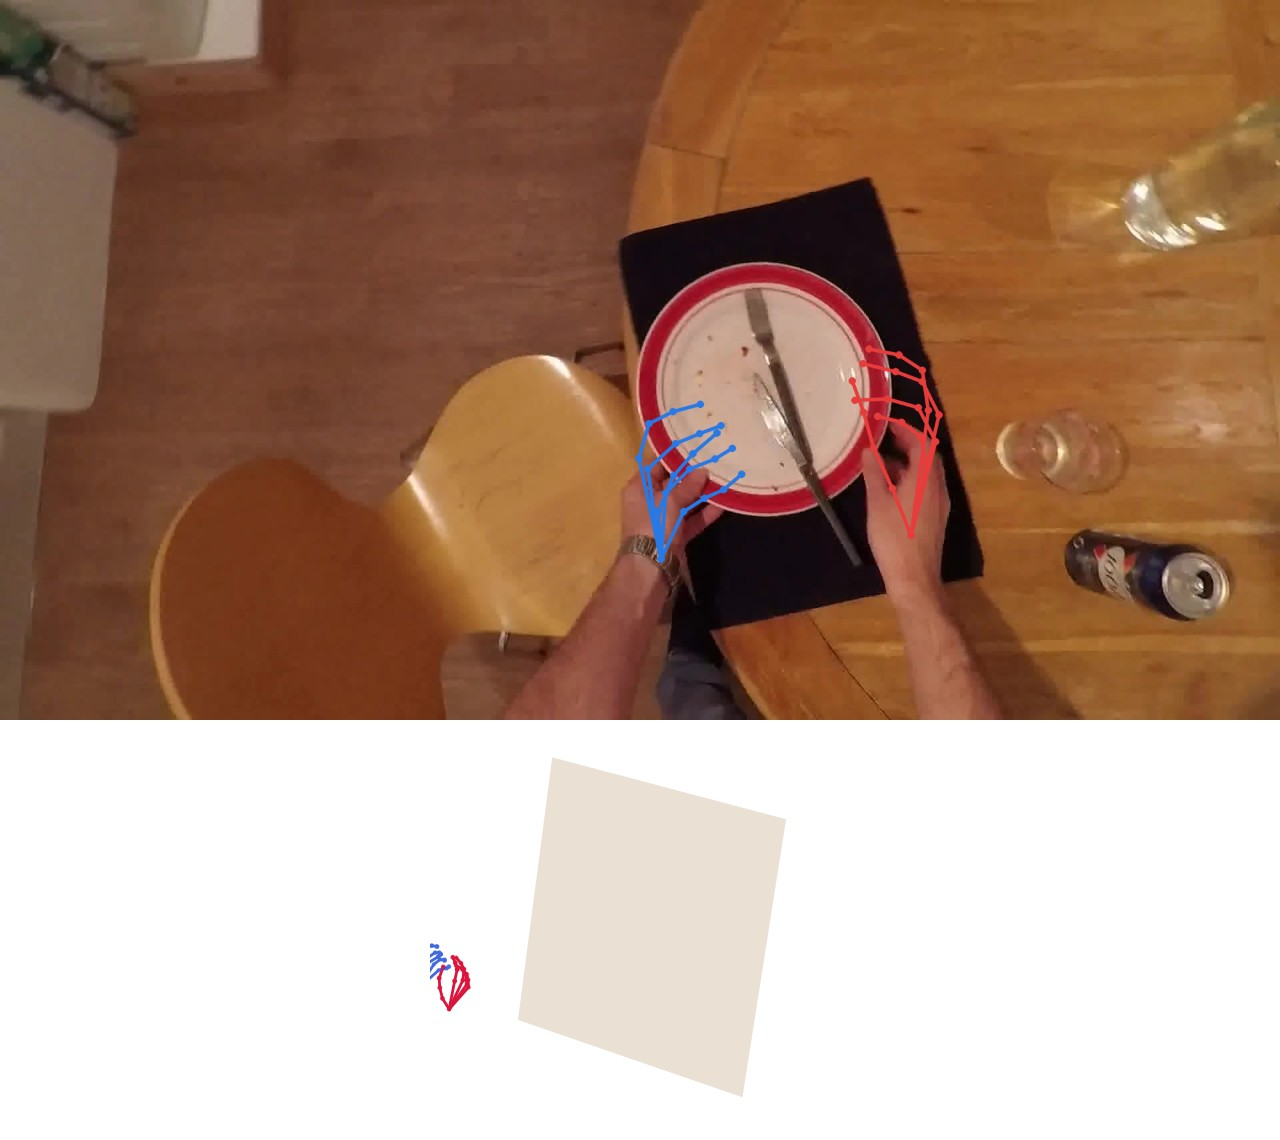
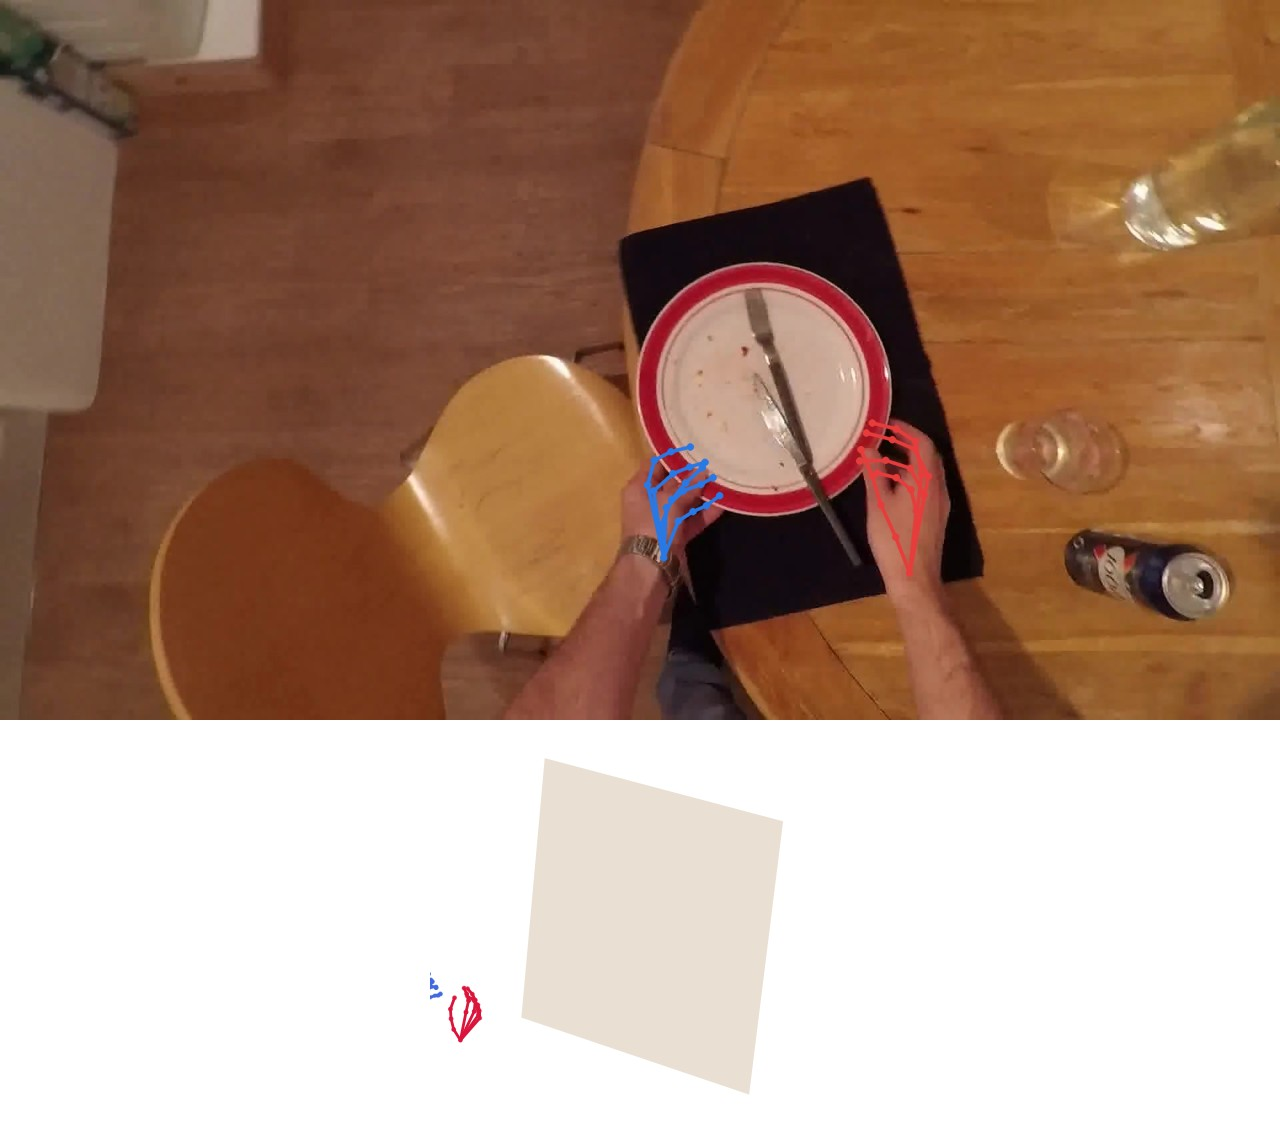
GeoCalib per-clip intrinsics: calibrated metric scale end to end
- run_geocalib.py estimates focal from sampled frames (median of 5)
- both clips measure ~70deg hfov (f=1360/1382px) vs nominal 1920px guess:
  lateral metric coordinates were ~40% overscaled before this
- fusion stores its focal in fusion.npz (meta__focal); renderer reads it so
  1a projection always matches the fusion's camera model
- refreshed fusion.npz + panel videos for both clips

diff --git a/samples/run_geocalib.py b/samples/run_geocalib.py
@@ -1,0 +1,29 @@
+"""Estimate camera intrinsics for a clip with GeoCalib.
+Usage: run_geocalib.py <frames_dir> <out_json>
+Samples a few frames, reports per-frame focal, saves the median.
+"""
+import sys, glob, json
+import numpy as np
+import torch
+from geocalib import GeoCalib
+
+frames_dir, out_json = sys.argv[1], sys.argv[2]
+frames = sorted(glob.glob(f'{frames_dir}/frame_*.jpg'))
+picks = frames[:: max(1, len(frames) // 5)][:5]
+
+model = GeoCalib().to('cuda')
+focals = []
+for fp in picks:
+    img = model.load_image(fp).to('cuda')
+    res = model.calibrate(img)
+    f = float(res['camera'].f.mean())
+    focals.append(f)
+    print(f'{fp}: f={f:.1f} px')
+
+med = float(np.median(focals))
+import cv2
+H, W = cv2.imread(picks[0]).shape[:2]
+json.dump({'focal_px': med, 'width': W, 'height': H,
+           'hfov_deg': float(2*np.degrees(np.arctan(W/2/med)))}, open(out_json, 'w'), indent=1)
+print(f'median focal {med:.1f}px  (nominal-guess was {max(H,W)});  hfov '
+      f'{2*np.degrees(np.arctan(W/2/med)):.1f} deg -> {out_json}')

diff --git a/samples/fuse_full.py b/samples/fuse_full.py
@@ -78,6 +78,11 @@ def main():
     frames_dir = sys.argv[1] if len(sys.argv) > 1 else 'ego_sample_frames'
     depth_dir = sys.argv[2] if len(sys.argv) > 2 else 'ego_depth_full'
     fusion_dir = sys.argv[3] if len(sys.argv) > 3 else 'ego_fusion_full'
+    focal_override = None
+    if len(sys.argv) > 4:  # optional GeoCalib intrinsics json
+        import json
+        focal_override = json.load(open(SAMPLES / sys.argv[4]))['focal_px']
+        print(f'using calibrated focal {focal_override:.1f}px from {sys.argv[4]}')
     os.makedirs(SAMPLES / fusion_dir, exist_ok=True)
     frames = sorted(glob.glob(str(SAMPLES / frames_dir / 'frame_*.jpg')))
     out = {}   # frame name -> dict(hands=[(right, joints 21x3)], plane=(n,d))
@@ -88,9 +93,9 @@ def main():
         img_cv2 = cv2.imread(fp)
         depth = np.load(dp)
         H, W = img_cv2.shape[:2]
-        # realistic nominal intrinsics (~53 deg hfov); HaMeR cam_t adapts via
-        # cam_crop_to_full so 2D projections stay aligned under this same K
-        scaled_focal = float(max(H, W))
+        # calibrated focal (GeoCalib) when provided, else nominal ~53 deg hfov;
+        # HaMeR cam_t adapts via cam_crop_to_full so 2D stays aligned either way
+        scaled_focal = focal_override or float(max(H, W))
 
         det = detector(img_cv2)['instances']
         vmask = (det.pred_classes == 0) & (det.scores > 0.5)
@@ -187,6 +192,7 @@ def main():
                                 for r, j, raw in out[nm]['hands']]
 
     np.savez_compressed(SAMPLES / fusion_dir / 'fusion.npz',
+                        meta__focal=np.array([focal_override or 0.0]),
                         **{nm: np.array(
                             [np.concatenate([[h[0]], h[1].ravel(), h[2].ravel()]) for h in v['hands']]
                             if v['hands'] else np.zeros((0, 127)), dtype=np.float32)

diff --git a/samples/render_panel.py b/samples/render_panel.py
@@ -28,7 +28,13 @@ for fp in frames:
     name = Path(fp).stem
     img = cv2.imread(fp)
     H, W = img.shape[:2]
-    f = float(max(H, W))  # same nominal focal as fuse_full.py
+    # must match the focal fuse_full used (calibrated if provided, else nominal)
+    if len(sys.argv) > 5:
+        f = float(sys.argv[5])
+    elif 'meta__focal' in data.files and data['meta__focal'][0] > 0:
+        f = float(data['meta__focal'][0])
+    else:
+        f = float(max(H, W))
     hands = data[name] if name in data.files else np.zeros((0, 64))
     plane = data.get(f'{name}__plane', np.zeros(4))
 
@@ -91,4 +97,4 @@ subprocess.run(['ffmpeg', '-y', '-loglevel', 'error', '-framerate', '30',
                 '-c:v', 'libx264', '-pix_fmt', 'yuv420p',
                 '-vf', 'pad=ceil(iw/2)*2:ceil(ih/2)*2',
                 str(SAMPLES / out_name)], check=True)
-print('PANEL-DONE ->', SAMPLES / 'ego_panel1.mp4')
+print('PANEL-DONE ->', SAMPLES / out_name)